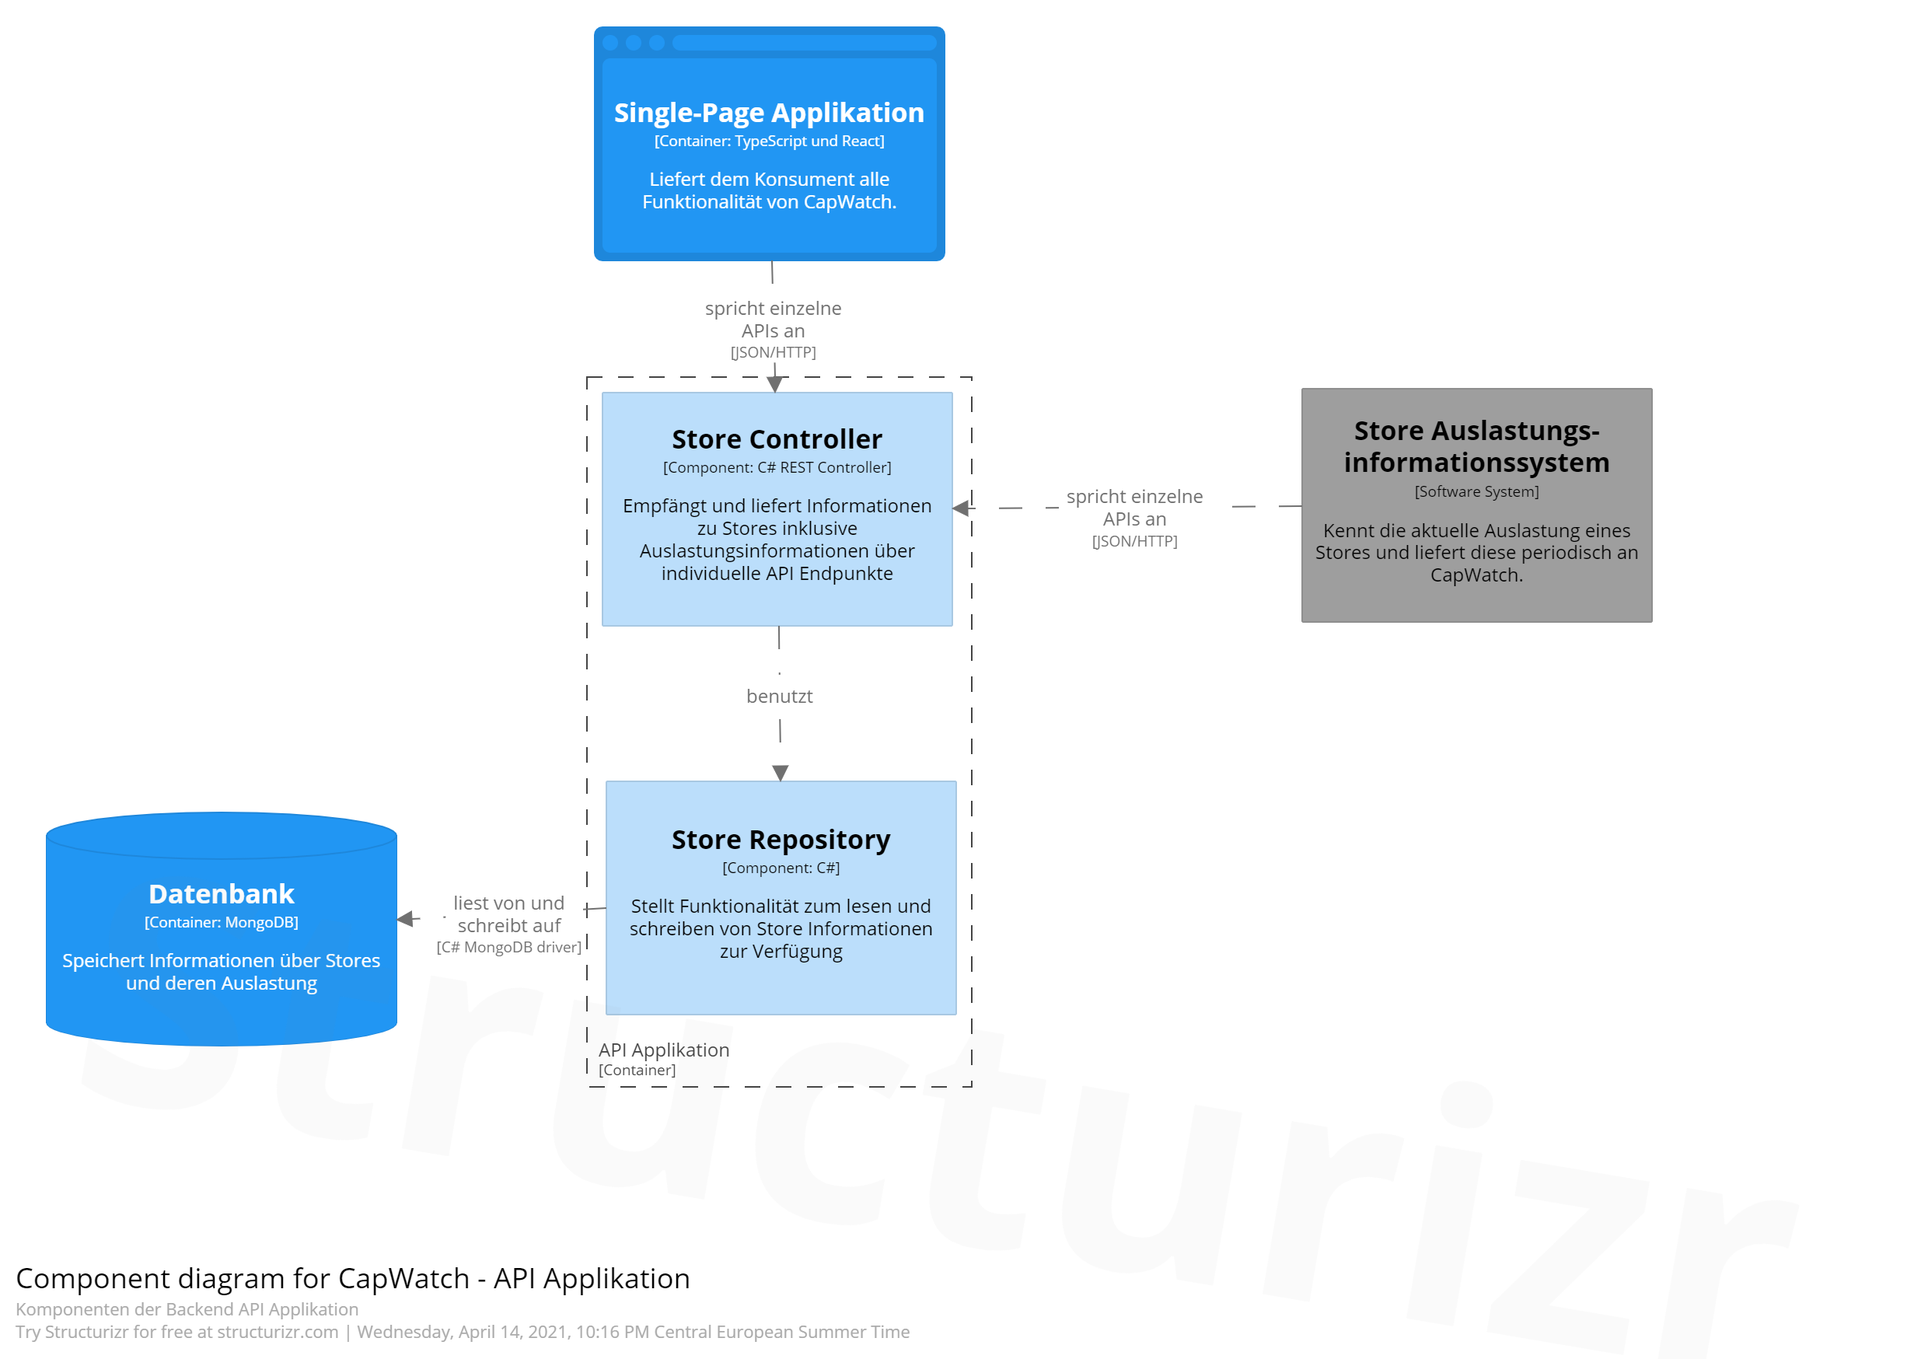
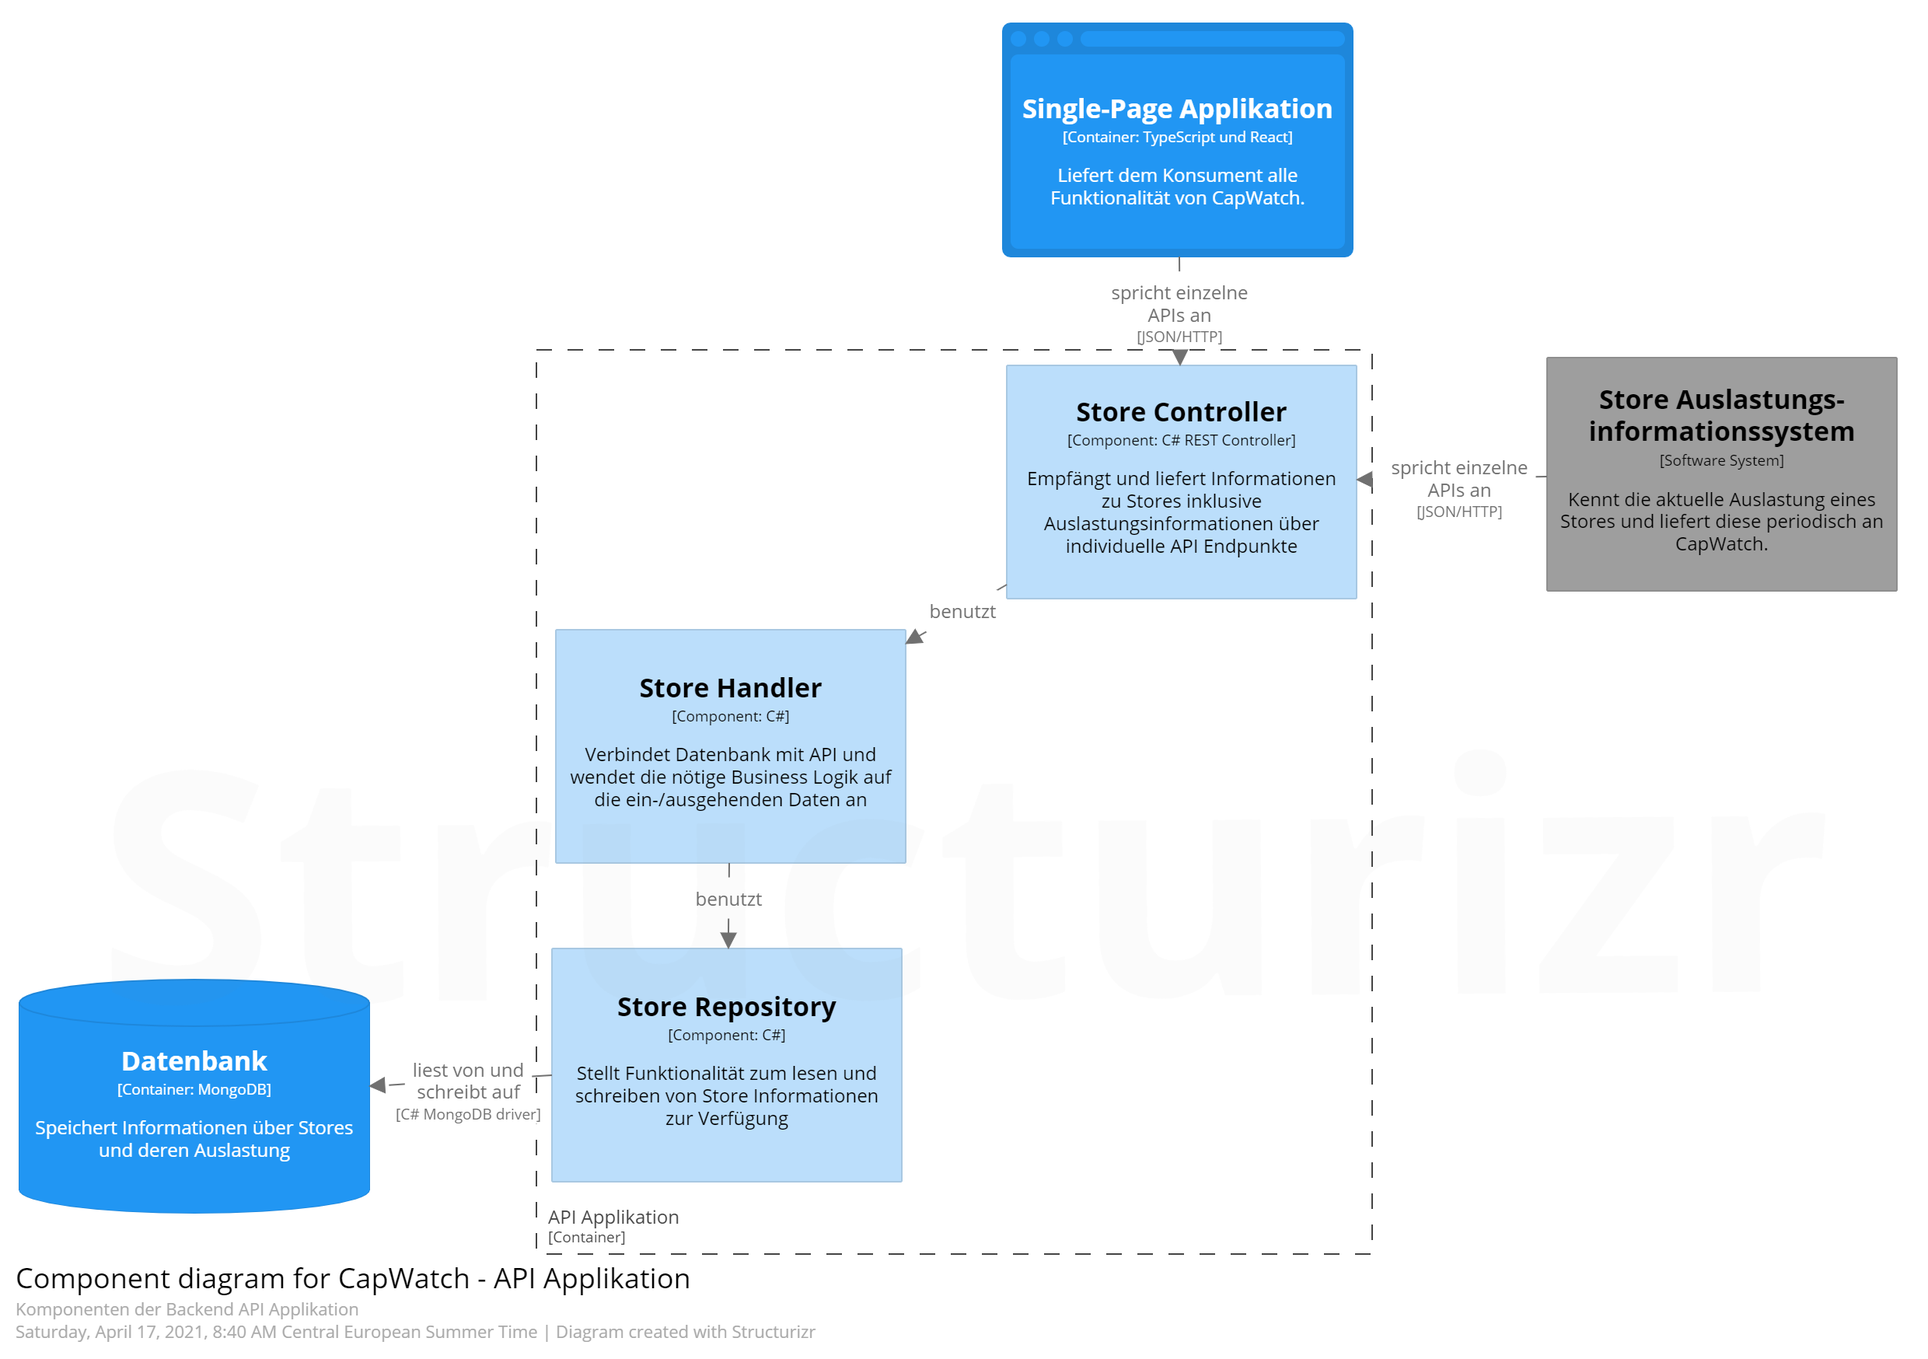
fix: formating, phrasing, added layer in c4 documentation

Changed region(s): [[0.0, 0.0, 0.9935, 0.9268], [0.0, 0.9577, 0.4347, 0.9886]]

diff --git a/documentation/qualitaetsmanagement/systemtestprotokoll-2021-04-16.md b/documentation/qualitaetsmanagement/systemtestprotokoll-2021-04-16.md
@@ -1,4 +1,4 @@
-# Systemtest-Protokoll 2. April 2021
+# Systemtest-Protokoll 16. April 2021
 
 ## Einführung
 
@@ -28,29 +28,29 @@ Um den Test durchzuführen wurde in beiden Repositories über Docker-Compose die
 ## Protokoll
 
 ```eval_rst
-+-----------+-------------+-----------------------------------------+-------------+
-|Anforderung|Implementiert|Kommentare               				|	Status    |
-+===========+=============+=========================================+=============+
-|AL-1-1     |ja           |                         				|	erfüllt   |
-+-----------+-------------+-----------------------------------------+-------------+
-|AL-1-2     |ja           |                         				|	erfüllt   |
-+-----------+-------------+-----------------------------------------+-------------+
-|AL-1-3     |ja           |                         				|	erfüllt   |
-+-----------+-------------+-----------------------------------------+-------------+
-|AW-1-1     |ja           |                         				|	erfüllt   |
-+-----------+-------------+-----------------------------------------+-------------+
-|AW-1-2     |ja           |                         				|	erfüllt   |
-+-----------+-------------+-----------------------------------------+-------------+
-|AW-1-3     |ja           |                         				|	erfüllt   |
-+-----------+-------------+-----------------------------------------+-------------+
-|AW-2-1     |nein         |Wurde nicht umgesetzt da Umfang zu Gross |nicht erfüllt|
-+-----------+-------------+-----------------------------------------+-------------+
-|AW-3-1     |ja           |                         				|	erfüllt   |
-+-----------+-------------+-----------------------------------------+-------------+
-|AW-3-2     |ja           |                         				|	erfüllt   |
-+-----------+-------------+-----------------------------------------+-------------+
-|AW-3-3     |ja           |                         				|	erfüllt   |
-+-----------+-------------+-----------------------------------------+-------------+
++----------------+---------------+--------------------------------------------------------+----------------------------------+
+| Anforderung    | Implementiert | Kommentare                                             | Status                           |
++================+===============+========================================================+==================================+
+| AL-1-1         | ja            |                                                        | erfüllt                          |
++----------------+---------------+--------------------------------------------------------+----------------------------------+
+| AL-2-1         | ja            |                                                        | erfüllt                          |
++----------------+---------------+--------------------------------------------------------+----------------------------------+
+| AL-2-2         | ja            |                                                        | erfüllt                          |
++----------------+---------------+--------------------------------------------------------+----------------------------------+
+| AW-1-1         | ja            |                                                        | erfüllt                          |
++----------------+---------------+--------------------------------------------------------+----------------------------------+
+| AW-1-2         | ja            |                                                        | erfüllt                          |
++----------------+---------------+--------------------------------------------------------+----------------------------------+
+| AW-1-3         | ja            |                                                        | erfüllt                          |
++----------------+---------------+--------------------------------------------------------+----------------------------------+
+| AW-2-1         | nein          | Wurde nicht umgesetzt da Umfang zu Gross               | nicht getestet                   |
++----------------+---------------+--------------------------------------------------------+----------------------------------+
+| AW-3-1         | ja            |                                                        | erfüllt                          |
++----------------+---------------+--------------------------------------------------------+----------------------------------+
+| AW-3-2         | ja            |                                                        | erfüllt                          |
++----------------+---------------+--------------------------------------------------------+----------------------------------+
+| AW-3-3         | ja            |                                                        | erfüllt                          |
++----------------+---------------+--------------------------------------------------------+----------------------------------+
 ```
 
 ## Verbesserungsmöglichkeiten

diff --git a/documentation/analyse/api-documentation.md b/documentation/analyse/api-documentation.md
@@ -1,13 +1,13 @@
 
 <!-- Generator: Widdershins v4.0.1 -->
 
-<h1 id="capwatchbackend-webapi">CapWatchBackend.WebApi v1</h1>
+# CapWatchBackend.WebApi v1
 
 > Scroll down for code samples, example requests and responses. Select a language for code samples from the tabs above or the mobile navigation menu.
 
-<h1 id="capwatchbackend-webapi-stores">Stores</h1>
+## Stores
 
-## get__Stores
+### get__Stores
 
 > Code samples
 
@@ -23,22 +23,19 @@ fetch('/Stores',
 }).then(function(body) {
     console.log(body);
 });
-
 ```
 
 `GET /Stores`
 
-<h3 id="get__stores-responses">Responses</h3>
+#### Responses
 
 |Status|Meaning|Description|Schema|
 |---|---|---|---|
 |200|[OK](https://tools.ietf.org/html/rfc7231#section-6.3.1)|Success|None|
 
-<aside class="success">
 This operation does not require authentication
-</aside>
 
-## patch__Stores
+### patch__Stores
 
 > Code samples
 
@@ -69,7 +66,6 @@ fetch('/Stores',
 }).then(function(body) {
     console.log(body);
 });
-
 ```
 
 `PATCH /Stores`
@@ -90,23 +86,21 @@ fetch('/Stores',
 }
 ```
 
-<h3 id="patch__stores-parameters">Parameters</h3>
+#### Parameters
 
 |Name|In|Type|Required|Description|
 |---|---|---|---|---|
 |body|body|[StoreModel](#schemastoremodel)|false|none|
 
-<h3 id="patch__stores-responses">Responses</h3>
+#### Responses
 
 |Status|Meaning|Description|Schema|
 |---|---|---|---|
 |200|[OK](https://tools.ietf.org/html/rfc7231#section-6.3.1)|Success|None|
 
-<aside class="success">
 This operation does not require authentication
-</aside>
 
-## post__Stores
+### post__Stores
 
 > Code samples
 
@@ -134,7 +128,6 @@ fetch('/Stores',
 }).then(function(body) {
     console.log(body);
 });
-
 ```
 
 `POST /Stores`
@@ -152,28 +145,25 @@ fetch('/Stores',
 }
 ```
 
-<h3 id="post__stores-parameters">Parameters</h3>
+#### Parameters
 
 |Name|In|Type|Required|Description|
 |---|---|---|---|---|
 |body|body|[StoreNew](#schemastorenew)|false|none|
 
-<h3 id="post__stores-responses">Responses</h3>
+#### Responses
 
 |Status|Meaning|Description|Schema|
 |---|---|---|---|
 |200|[OK](https://tools.ietf.org/html/rfc7231#section-6.3.1)|Success|None|
 
-<aside class="success">
 This operation does not require authentication
-</aside>
 
-## get__Stores_{id}
+### get__Stores_{id}
 
 > Code samples
 
 ```javascript
-
 fetch('/Stores/{id}',
 {
   method: 'GET'
@@ -184,35 +174,27 @@ fetch('/Stores/{id}',
 }).then(function(body) {
     console.log(body);
 });
-
 ```
 
 `GET /Stores/{id}`
 
-<h3 id="get__stores_{id}-parameters">Parameters</h3>
+#### Parameters
 
 |Name|In|Type|Required|Description|
 |---|---|---|---|---|
 |id|path|integer(int32)|true|none|
 
-<h3 id="get__stores_{id}-responses">Responses</h3>
+#### Responses
 
 |Status|Meaning|Description|Schema|
 |---|---|---|---|
 |200|[OK](https://tools.ietf.org/html/rfc7231#section-6.3.1)|Success|None|
 
-<aside class="success">
 This operation does not require authentication
-</aside>
 
-# Schemas
+## Schemas
 
-<h2 id="tocS_StoreModel">StoreModel</h2>
-<!-- backwards compatibility -->
-<a id="schemastoremodel"></a>
-<a id="schema_StoreModel"></a>
-<a id="tocSstoremodel"></a>
-<a id="tocsstoremodel"></a>
+### StoreModel
 
 ```json
 {
@@ -226,10 +208,9 @@ This operation does not require authentication
   "logo": "string",
   "secret": "string"
 }
-
 ```
 
-### Properties
+#### Properties
 
 |Name|Type|Required|Restrictions|Description|
 |---|---|---|---|---|
@@ -243,12 +224,7 @@ This operation does not require authentication
 |logo|string(byte)¦null|false|none|none|
 |secret|string|true|none|none|
 
-<h2 id="tocS_StoreNew">StoreNew</h2>
-<!-- backwards compatibility -->
-<a id="schemastorenew"></a>
-<a id="schema_StoreNew"></a>
-<a id="tocSstorenew"></a>
-<a id="tocsstorenew"></a>
+### StoreNew
 
 ```json
 {
@@ -262,7 +238,7 @@ This operation does not require authentication
 
 ```
 
-### Properties
+#### Properties
 
 |Name|Type|Required|Restrictions|Description|
 |---|---|---|---|---|
@@ -272,4 +248,3 @@ This operation does not require authentication
 |city|string|true|none|none|
 |maxCapacity|integer(int32)¦null|false|none|none|
 |logo|string(byte)¦null|false|none|none|
-

diff --git a/documentation/design/softwarearchitektur.md b/documentation/design/softwarearchitektur.md
@@ -27,7 +27,7 @@ Wir haben uns entschieden zur Visualisierung unserer Architektur das C4 Modell z
 
 ### Container Diagramm der Software CapWatch (*)
 
-_(*) Das Wort Container wir hier in der Definition nach C4 Modell verwendet und und nicht im Kontext von Docker._
+_(*) Das Wort Container wird hier in der Definition nach C4 Modell verwendet und und nicht im Kontext von Docker._
 
 ![container](../../diagrams/structurizr/images/structurizr-65674-CapWatchContainers.png)
 ![container](../../diagrams/structurizr/images/structurizr-65674-CapWatchContainers-key.png)
@@ -38,9 +38,9 @@ Das Gesamtsystem besteht aus einer MongoDB Datenbankinstanz und einem C# Backend
 
 Das Frontend besteht aus einer Single-Page Applikation welche mit React in TypeScript geschrieben ist. Diese wird von einem Nginx Webserver an den Konsumenten geliefert. Das Frontend ist grob in drei Schichten unterteilt. Zuoberst befindet sich die GUI Schicht, die sich um die Darstellung der Information kümmert. Darunter befinden sich Komponenten welche die Daten für die GUI Schicht bereitstellen. Diese Daten werden von der untersten Schicht, den Services, von der Backend API abgeholt und an die Komponenten weitergeleitet.
 
-Für React haben wir uns entschieden, da Angular unserer Meinung nach zu gross für unseren Projektumfang ist. Bei der Wahl zwischen Vue und React gewann letzteres dann, da das teaminterne Interesse and er Technologie und auch das existierende Vorwissen grösser war. Überdies ist React parallel zum Projekt auch Thema in der _Web Engineering und Design 3_ Vorlesung welche von einem Projektmitarbeiter besucht wird.
-
 ![frontend-overview](../../diagrams/frontend-overview.jpg)
+
+Für React haben wir uns entschieden, da Angular unserer Meinung nach zu gross für unseren Projektumfang ist. Bei der Wahl zwischen Vue und React gewann letzteres dann, da das teaminterne Interesse and er Technologie und auch das existierende Vorwissen grösser war. Überdies ist React parallel zum Projekt auch Thema in der _Web Engineering und Design 3_ Vorlesung welche von einem Projektmitarbeiter besucht wird.
 
 ### Komponenten Diagramm der API Backend Applikation
 
@@ -50,6 +50,10 @@ Für React haben wir uns entschieden, da Angular unserer Meinung nach zu gross f
 #### Store Controller
 
 Der Store Controller bietet klassische REST Schnittstellen an über welche Informationen zu Stores angefragt und aktualisiert werden können. Welche API Schnittstellen im Detail zur Verfügung stehen kann in der [API Dokumentation](../analyse/api-documentation.md) eingesehen werden.
+
+#### Store Handler
+
+Der Store Handler liegt in der Applikationsschicht und verbindet das Store Repository mit dem Store Controller. Der Handler implementiert die Business Logik, welche auf ein- und ausgehende Stores angewendet wird.
 
 #### Store Repository
 
@@ -95,7 +99,7 @@ Zum aktuellen Zeitpunkt können noch keine Aussagen zu Einschränkungen bezügli
 
 ## Ausbau-Szenario
 
-Bezüglich Ausbau-Szenarien haben wir uns bereits bei der Erstellung der [Anforderungsspezifikation](../analyse/anforderungsspezifikation.md) Gedanken gemacht. Mögliche Erweiterungen sind sind in den Tabellen bei den Funktionalen Anforderungen und Qualitätsmerkmalen unter der Kategorie _KANN_ aufgeführt.
+Bezüglich Ausbau-Szenarien haben wir uns bereits bei der Erstellung der [Anforderungsspezifikation](../analyse/anforderungsspezifikation.md) Gedanken gemacht. Mögliche Erweiterungen sind in den Tabellen bei den Funktionalen Anforderungen und Qualitätsmerkmalen unter der Kategorie _KANN_ aufgeführt.
 
 Weiter lädt das Frontend aktuell regelmässig die Liste der Stores und deren Auslastung um aktuelle Daten anzuzeigen. Hier würde sich ein Websocket anbieten, welcher dem Frontend mitteilt, falls es Änderungen gibt. Dieser Ausbau ist bereits für einen der nächsten Sprints geplant.
 

diff --git a/documentation/qualitaetsmanagement/systemtestspezifikation.md b/documentation/qualitaetsmanagement/systemtestspezifikation.md
@@ -28,19 +28,19 @@ Die folgende Liste von Tests bezieht sich vorerst auf die Funktionalität des Ar
 +-------------+-------------------------------------------------------+
 | Anforderung | Beschreibung                                          |
 +=============+=======================================================+
-| AL-1-1      | POST Request vorbereiten mit korrektem Body in JSON   |
-|             | Format. Request an URL localhost:8080/Stores          |
-|             | absenden. Antwort muss 200 sein und id und secret     |
+| AL-1-1      | PATCH Request vorbereiten mit korrektem Body im JSON  |
+|             | Format. Request an URL localhost:8080/stores senden.  |
+|             | Antwort muss 200 sein ohne Rückgabe.                  |
++-------------+-------------------------------------------------------+
+| AL-2-1      | POST Request vorbereiten mit korrektem Body im JSON   |
+|             | Format. Request an URL localhost:8080/stores senden.  |
+|             | Antwort muss 200 sein und die id und das secret       |
 |             | müssen in der Antwort zurückgesendet werden.          |
 +-------------+-------------------------------------------------------+
-| AL-1-2      | POST Request vorbereiten mit fehlendem Name im JSON.  |
-|             | Request an URL localhost:8080/Stores absenden.        |
+| AL-2-2      | POST Request vorbereiten mit fehlendem Namen im JSON  |
+|             | Format. Request an URL localhost:8080/stores senden.  |
 |             | Antwort muss 400 sein und es muss der Fehler "Name    |
 |             | muss Vorhanden sein" als Antwort zurückkommen.        |
-+-------------+-------------------------------------------------------+
-| AL-1-3      | PATCH Request vorbereiten mit korrektem Body im JSON  |
-|             | Format. Request an URL localhost:8080/Stores absenden.|
-|             | Antwort muss 200 sein und es wird kein Body gesendet  |
 +-------------+-------------------------------------------------------+
 | AW-1-1      | Datenbank nicht anbinden. URL des CapWatch Frontend   |
 |             | aufrufen. Es wird eine Meldung angezeigt, dass ein    |
@@ -78,4 +78,3 @@ Die folgende Liste von Tests bezieht sich vorerst auf die Funktionalität des Ar
 |             | angezeigt, dass kein Geschäft gefunden worden ist.    |
 +-------------+-------------------------------------------------------+
 ```
-

diff --git a/documentation/projektplan/projektplan.md b/documentation/projektplan/projektplan.md
@@ -304,10 +304,7 @@ Die Risikoanalyse wurde im Dokument risikoanalyse.md detailliert beschreiben.
 Aufgrund der Risikoanalyse wurde ein durchschnittliches Schadenspotenzial von vier Stunden berechnet, desshalb werden
 in jedem Sprint vier Stunden als Reserve eingerechnet um sicherstellen zu können, dass der Projektplan eingehalten werden kann.
 
-Risiken welche einen gewichteten Schaden grösser als die geplanten vier Stunden Reserve aufweisen, werden hier nochmals im Detail angeschaut.
-
-Ri5 Zeitmanagement: Im Sprint Planning sollen Tasks, welche im nächsten Sprint eingeplant wurden, von den Entwicklern
-ausführlich analysiert und diskutiert werden. Danach wird gemeinsam eine Aufwandsschätzung vorgenommen, um eine zuverlässige Schätzung zu erhalten.
+Zum aktuellen Zeitpunkt gibt es keine Risiken mehr, welche einen gewichteten Schaden grösser als die geplanten vier Stunden Reserve aufweisen.
 
 ## Arbeitspakete
 

diff --git a/documentation/projektplan/risikoanalyse.md b/documentation/projektplan/risikoanalyse.md
@@ -68,8 +68,9 @@ Vorlesung SE1 FS2021: Woche 1 - W01 - Introduction and Project Planning
 |     |                      |                                           |                   |                Summe |            23 |                          |                               |
 +-----+----------------------+-------------------------------------------+-------------------+----------------------+---------------+--------------------------+-------------------------------+
 ```
-**Durchschnitt Schadenspotenzial (aufgerundet) = Gewichteter Schaden Projekt / Anzahl Sprints  **
-Gewichteter Schaden = Schadenspotenzial *Eintrittswahrscheinlichkeit*
+
+\* *Durchschnitt Schadenspotenzial (aufgerundet) = Gewichteter Schaden Projekt / Anzahl Sprints*
+** *Gewichteter Schaden = Schadenspotenzial * Eintrittswahrscheinlichkeit*
 
 ## Risikoüberwachung
 

diff --git a/documentation/index.md b/documentation/index.md
@@ -15,6 +15,7 @@
     qualitaetsmanagement/qualitaetssicherung.md
     qualitaetsmanagement/systemtestspezifikation.md
     qualitaetsmanagement/systemtestprotokoll-2021-04-02.md
+    qualitaetsmanagement/systemtestprotokoll-2021-04-16.md
     schlussbericht/schlussbericht.md
     administration/eigenstaendigkeitserklaerung.md
     timereport.md
